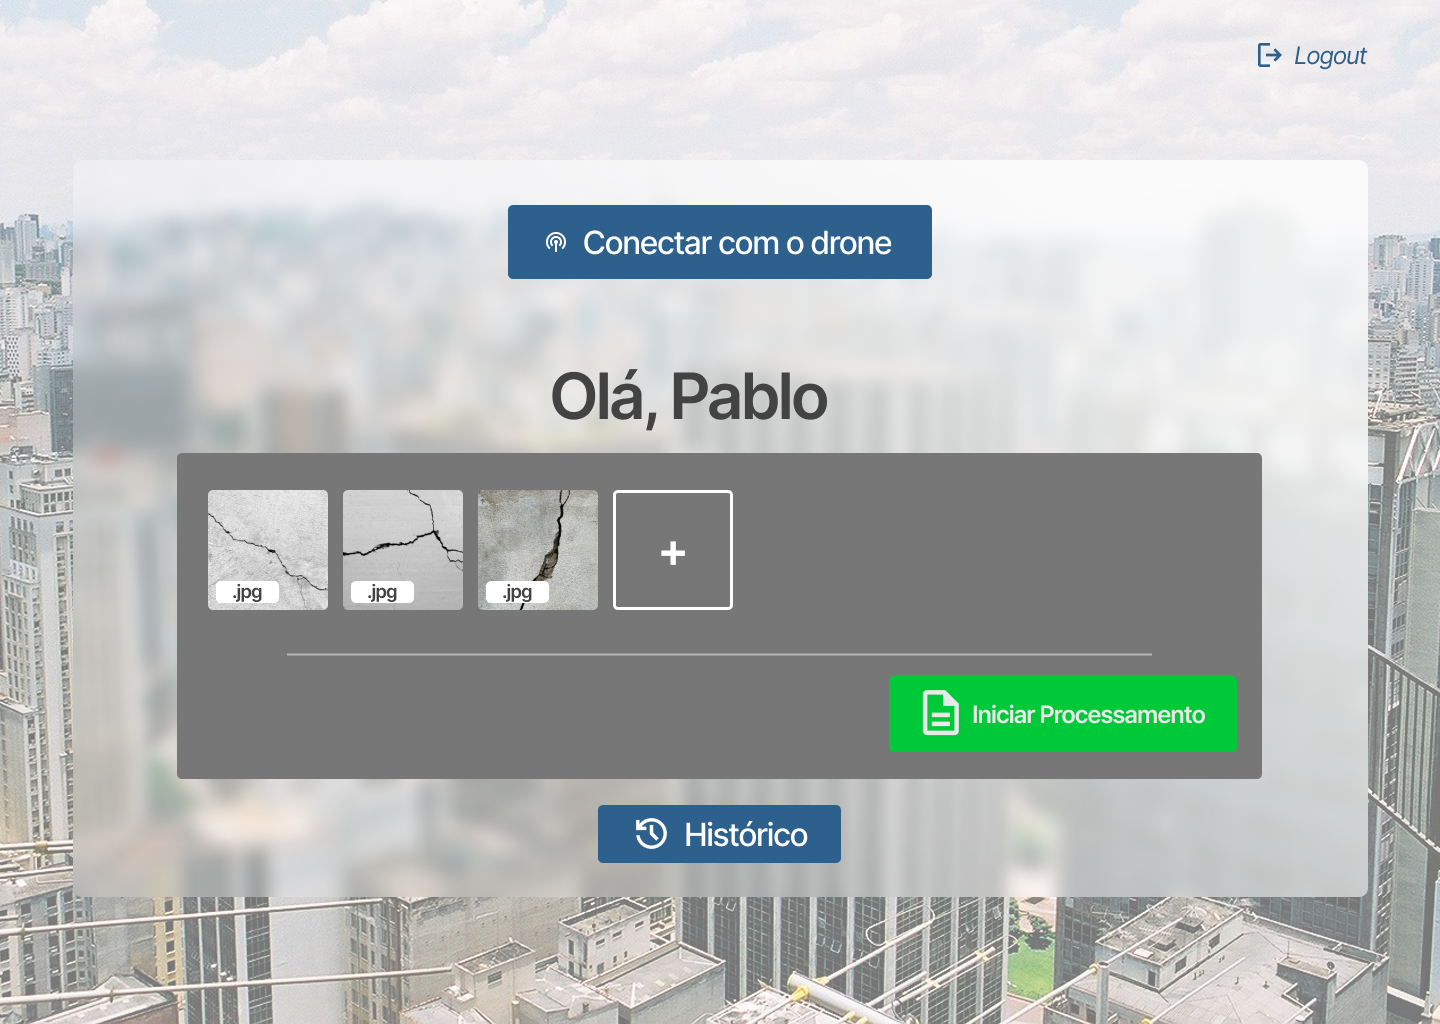
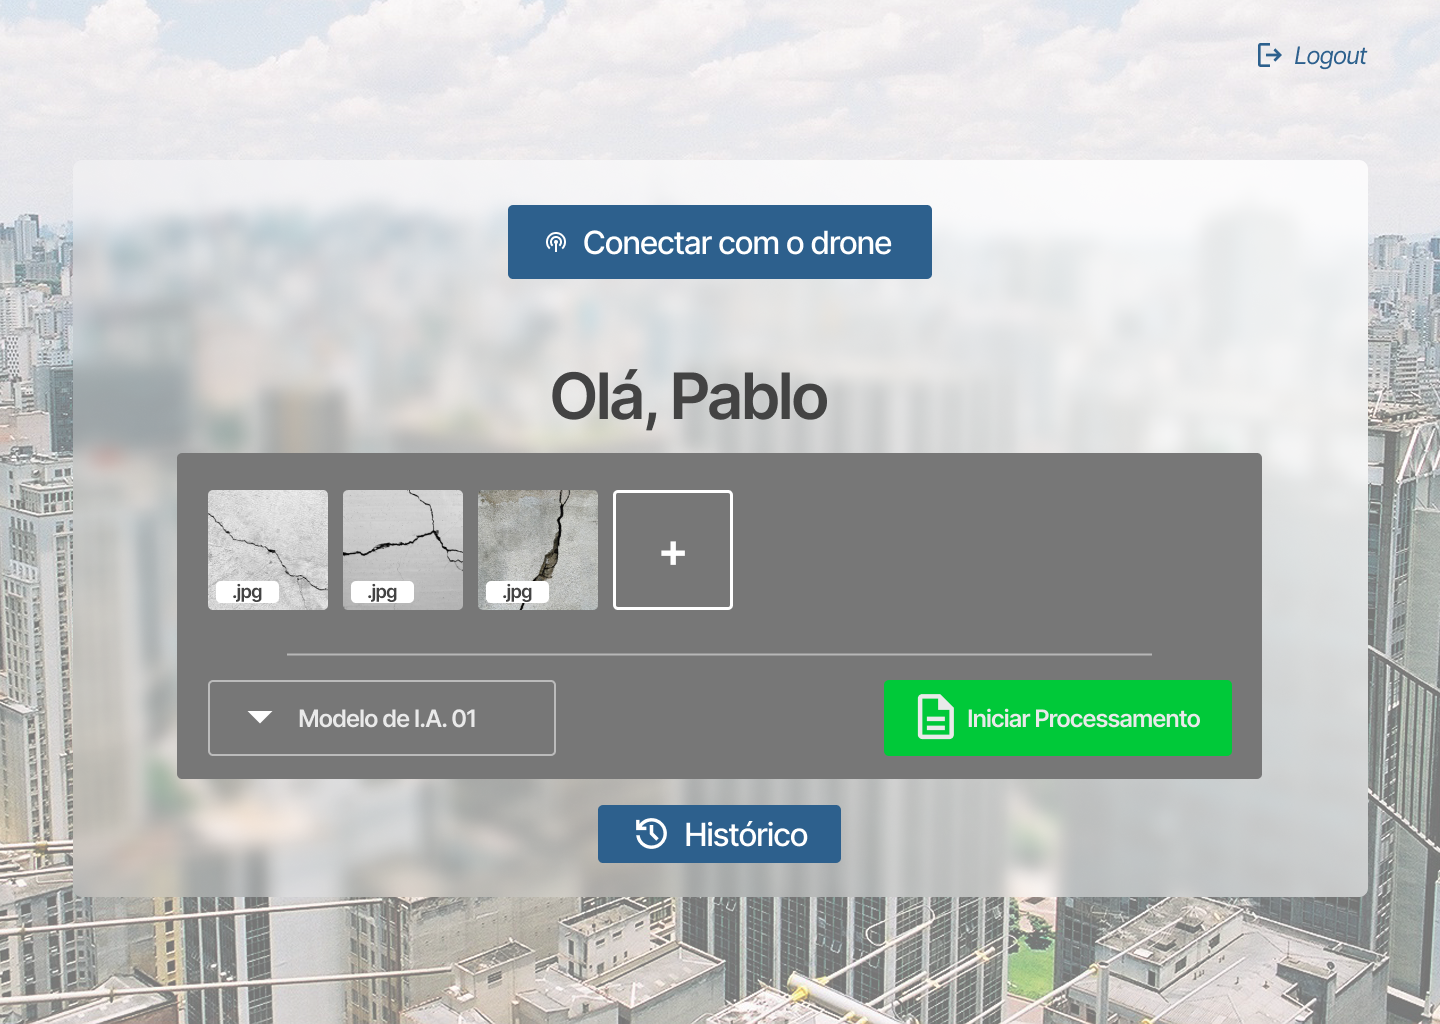
docs: aprimora a documentação
Este commit aprimora a documentação do protótipo de alta fidelidade, conforme solicitado na correção do pull request.

Changed region(s): [[0.5938, 0.6562, 0.875, 0.75], [0.1562, 0.6875, 0.3438, 0.7188]]

diff --git a/docs/docs/sprint-2/design-e-ux/prototipo-alta-fidelidade.md b/docs/docs/sprint-2/design-e-ux/prototipo-alta-fidelidade.md
@@ -78,22 +78,52 @@ Como técnico experiente em inspeção e monitoramento, Carlos necessita:
 </div>
 <p style={{textAlign: 'center'}}>Fonte: Produzida pelos Autores (2025). </p>
 
-### 3. Tela de Upload de Imagens
+### 3. Tela de Upload de Imagens e seleção de I.A.
 
-&emsp;Interface que permite tanto o upload manual quanto a captura em tempo real via drone, com visualização imediata das imagens.
+&emsp;Interface que permite tanto o upload manual quanto a captura em tempo real via drone, com visualização imediata das imagens, além de possibilitar ao usuário selecionar o modelo de inteligência artificial para realizar a análise das imagens.
 
-**Benefícios para Mariana:** Organização sistemática das imagens para análise científica.
+**Benefícios para Mariana:** Organização sistemática das imagens para análise científica e autonomia para escolha do modelo de inteligência artificial desejado.
 
 **Benefícios para Carlos:** Visualização rápida das capturas e processamento imediato, reduzindo o tempo de inspeção.
 
-<p style={{textAlign: 'center'}}>Figura 4: Home Page com upload de imagens manual</p>
+#### 3.1. Upload Manual de Imagens
+
+&emsp;A Figura 4 apresenta a interface da página inicial do sistema, que confere ao usuário total autonomia para realizar o upload de múltiplas imagens simultaneamente, sem qualquer limitação quanto à quantidade de arquivos. Esta funcionalidade permite que, caso o usuário possua um banco de imagens pré-existente, todos os arquivos possam ser carregados facilmente no sistema para posterior geração de relatórios analíticos.
+
+<p style={{textAlign: 'center'}}>Figura 4: Home Page com funcionalidade de upload manual de imagens</p>
 <div style={{margin: 25}}>
     <div style={{textAlign: 'center'}}>
         <img src={require("../../../static/img/wireframe/Home-Page-Com-Upload.png").default} style={{width: 800}} alt="Home page com upload de imagens" />
         <br />
     </div>
 </div>
-<p style={{textAlign: 'center'}}>Fonte: Produzida pelos Autores (2025). </p>
+<p style={{textAlign: 'center'}}>Fonte: Produzida pelos Autores (2025).</p>
+
+#### 3.2. Integração com Drone
+
+&emsp;Conforme ilustrado na Figura 5, quando o sistema está conectado ao drone, as fotografias capturadas pelo equipamento são transmitidas e integradas em tempo real à interface do usuário. As imagens são automaticamente adicionadas ao campo de preenchimento da página inicial. Uma vez que o usuário considere suficiente a quantidade de imagens obtidas, pode prosseguir diretamente para o processamento, não sendo necessário desconectar o drone antes de acionar o botão "Iniciar processamento".
+
+<p style={{textAlign: 'center'}}>Figura 5: Home Page com imagens capturadas via integração com drone</p>
+<div style={{margin: 25}}>
+    <div style={{textAlign: 'center'}}>
+        <img src={require("../../../static/img/wireframe/Home-page-conectada-ao-drone.png").default} style={{width: 800}} alt="Home Page com upload de imagens realizadas por conexão com o drone" />
+        <br />
+    </div>
+</div>
+<p style={{textAlign: 'center'}}>Fonte: Produzida pelos Autores (2025).</p>
+
+#### 3.3. Seleção de Modelo de Inteligência Artificial
+
+&emsp;A Figura 6 demonstra como o sistema proporciona ao usuário completa autonomia para selecionar, dentre os modelos de inteligência artificial disponíveis, aquele que melhor atende às suas necessidades analíticas. O processamento será realizado utilizando o modelo especificamente selecionado pelo usuário, garantindo assim resultados personalizados de acordo com as características particulares de cada análise.
+
+<p style={{textAlign: 'center'}}>Figura 6: Interface de seleção de modelo de inteligência artificial</p>
+<div style={{margin: 25}}>
+    <div style={{textAlign: 'center'}}>
+        <img src={require("../../../static/img/wireframe/Home-Page-Com-Seleção-de-IA.png").default} style={{width: 800}} alt="Seleção de inteligência artificial desejada" />
+        <br />
+    </div>
+</div>
+<p style={{textAlign: 'center'}}>Fonte: Produzida pelos Autores (2025).</p>
 
 ### 4. Tela de Auditoria de Imagens
 
@@ -103,7 +133,7 @@ Como técnico experiente em inspeção e monitoramento, Carlos necessita:
 
 **Benefícios para Carlos:** Capacidade de aplicar sua experiência prática para casos ambíguos, garantindo que seu conhecimento técnico agregue valor onde a automação encontra limitações.
 
-<p style={{textAlign: 'center'}}>Figura 5: Tela de auditoria de imagem</p>
+<p style={{textAlign: 'center'}}>Figura 7: Tela de auditoria de imagem</p>
 <div style={{margin: 25}}>
     <div style={{textAlign: 'center'}}>
         <img src={require("../../../static/img/wireframe/Processodeauditoria.png").default} style={{width: 800}} alt="Tela de auditoria de imagens" />
@@ -112,7 +142,7 @@ Como técnico experiente em inspeção e monitoramento, Carlos necessita:
 </div>
 <p style={{textAlign: 'center'}}>Fonte: Produzida pelos Autores (2025). </p>
 
-<p style={{textAlign: 'center'}}>Figura 6: Processo de auditoria de uma imagem</p>
+<p style={{textAlign: 'center'}}>Figura 8: Processo de auditoria de uma imagem</p>
 <div style={{margin: 25}}>
     <div style={{textAlign: 'center'}}>
         <img src={require("../../../static/img/wireframe/Analiseminunciosa.png").default} style={{width: 800}} alt="Tela de auditoria de uma imagem" />
@@ -129,7 +159,7 @@ Como técnico experiente em inspeção e monitoramento, Carlos necessita:
 
 **Benefícios para Carlos:** Visualização direta e quantitativa dos problemas identificados, facilitando a elaboração de recomendações técnicas.
 
-<p style={{textAlign: 'center'}}>Figura 7: Tela de insights do relatório</p>
+<p style={{textAlign: 'center'}}>Figura 9: Tela de insights do relatório</p>
 <div style={{margin: 25}}>
     <div style={{textAlign: 'center'}}>
         <img src={require("../../../static/img/wireframe/Insightsdorelatorio.png").default} style={{width: 800}} alt="Tela de insights do relatório" />
@@ -146,7 +176,7 @@ Como técnico experiente em inspeção e monitoramento, Carlos necessita:
 
 **Benefícios para Carlos:** Acesso remoto a áreas de difícil inspeção manual, aumentando a segurança e eficiência.
 
-<p style={{textAlign: 'center'}}>Figura 8: Tela de conexão com o drone</p>
+<p style={{textAlign: 'center'}}>Figura 10: Tela de conexão com o drone</p>
 <div style={{margin: 25}}>
     <div style={{textAlign: 'center'}}>
         <img src={require("../../../static/img/wireframe/ConectandocomoDrone.png").default} style={{width: 800}} alt="Figura 8: Tela de conexão com o drone" />
@@ -155,7 +185,7 @@ Como técnico experiente em inspeção e monitoramento, Carlos necessita:
 </div>
 <p style={{textAlign: 'center'}}>Fonte: Produzida pelos Autores (2025). </p>
 
-<p style={{textAlign: 'center'}}>Figura 9: Sucesso na conexão com o drone</p>
+<p style={{textAlign: 'center'}}>Figura 11: Sucesso na conexão com o drone</p>
 <div style={{margin: 25}}>
     <div style={{textAlign: 'center'}}>
         <img src={require("../../../static/img/wireframe/Sucessonaconexao.png").default} style={{width: 800}} alt="Figura 8: Tela de sucesso na conexão com o drone" />
@@ -164,7 +194,7 @@ Como técnico experiente em inspeção e monitoramento, Carlos necessita:
 </div>
 <p style={{textAlign: 'center'}}>Fonte: Produzida pelos Autores (2025). </p>
 
-<p style={{textAlign: 'center'}}>Figura 10: Falha na conexão com o drone</p>
+<p style={{textAlign: 'center'}}>Figura 12: Falha na conexão com o drone</p>
 <div style={{margin: 25}}>
     <div style={{textAlign: 'center'}}>
         <img src={require("../../../static/img/wireframe/Falhanacomunicacao.png").default} style={{width: 800}} alt="Figura 8: Tela de falha na conexão com o drone" />
@@ -181,7 +211,7 @@ Como técnico experiente em inspeção e monitoramento, Carlos necessita:
 
 **Benefícios para Carlos:** Acesso rápido aos relatórios mais recentes, com possibilidade de download imediato através dos ícones intuitivos, otimizando o tempo em campo e facilitando a apresentação de dados durante visitas técnicas aos clientes.
 
-<p style={{textAlign: 'center'}}>Figura 11: Tela de histórico de relatórios</p>
+<p style={{textAlign: 'center'}}>Figura 13: Tela de histórico de relatórios</p>
 <div style={{margin: 25}}>
     <div style={{textAlign: 'center'}}>
         <img src={require("../../../static/img/wireframe/Abadehistorico.png").default} style={{width: 800}} alt="Tela de histórico de relatórios" />
